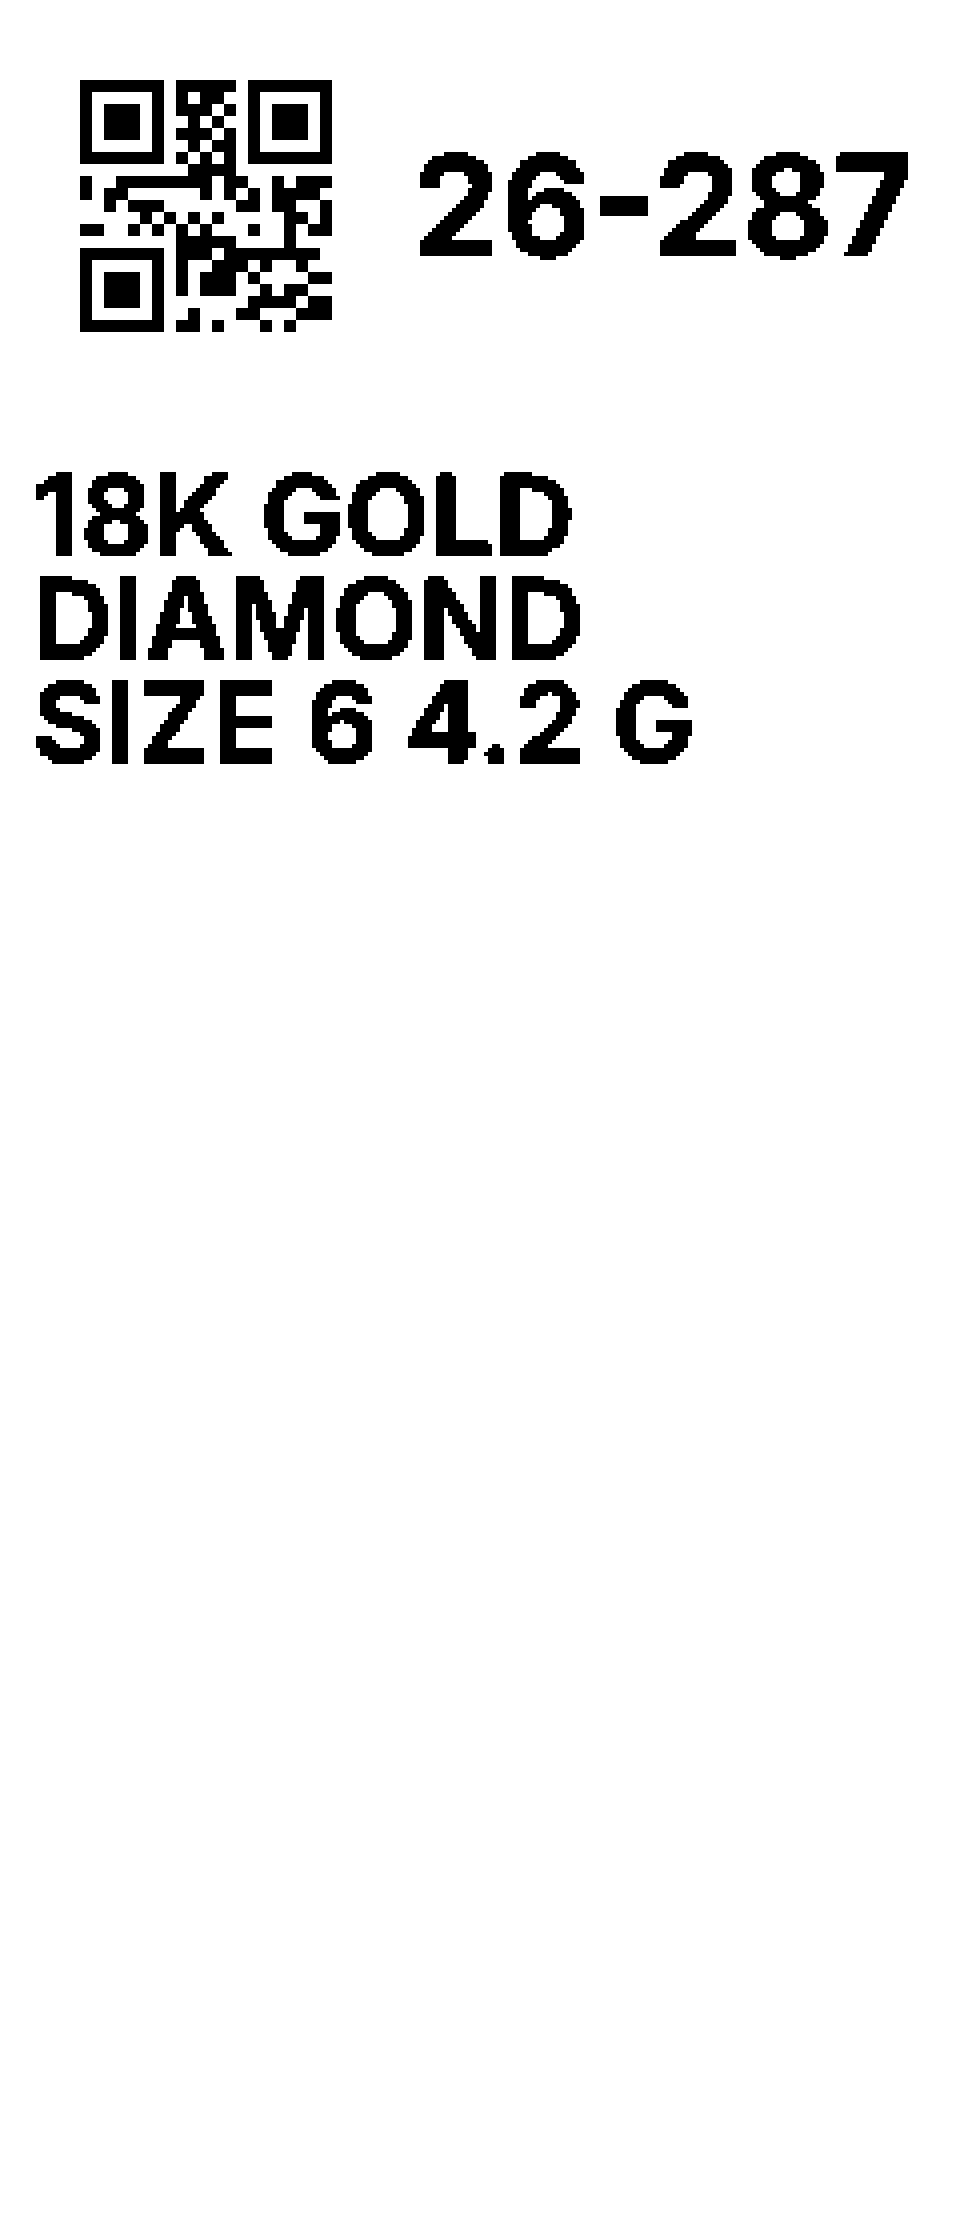
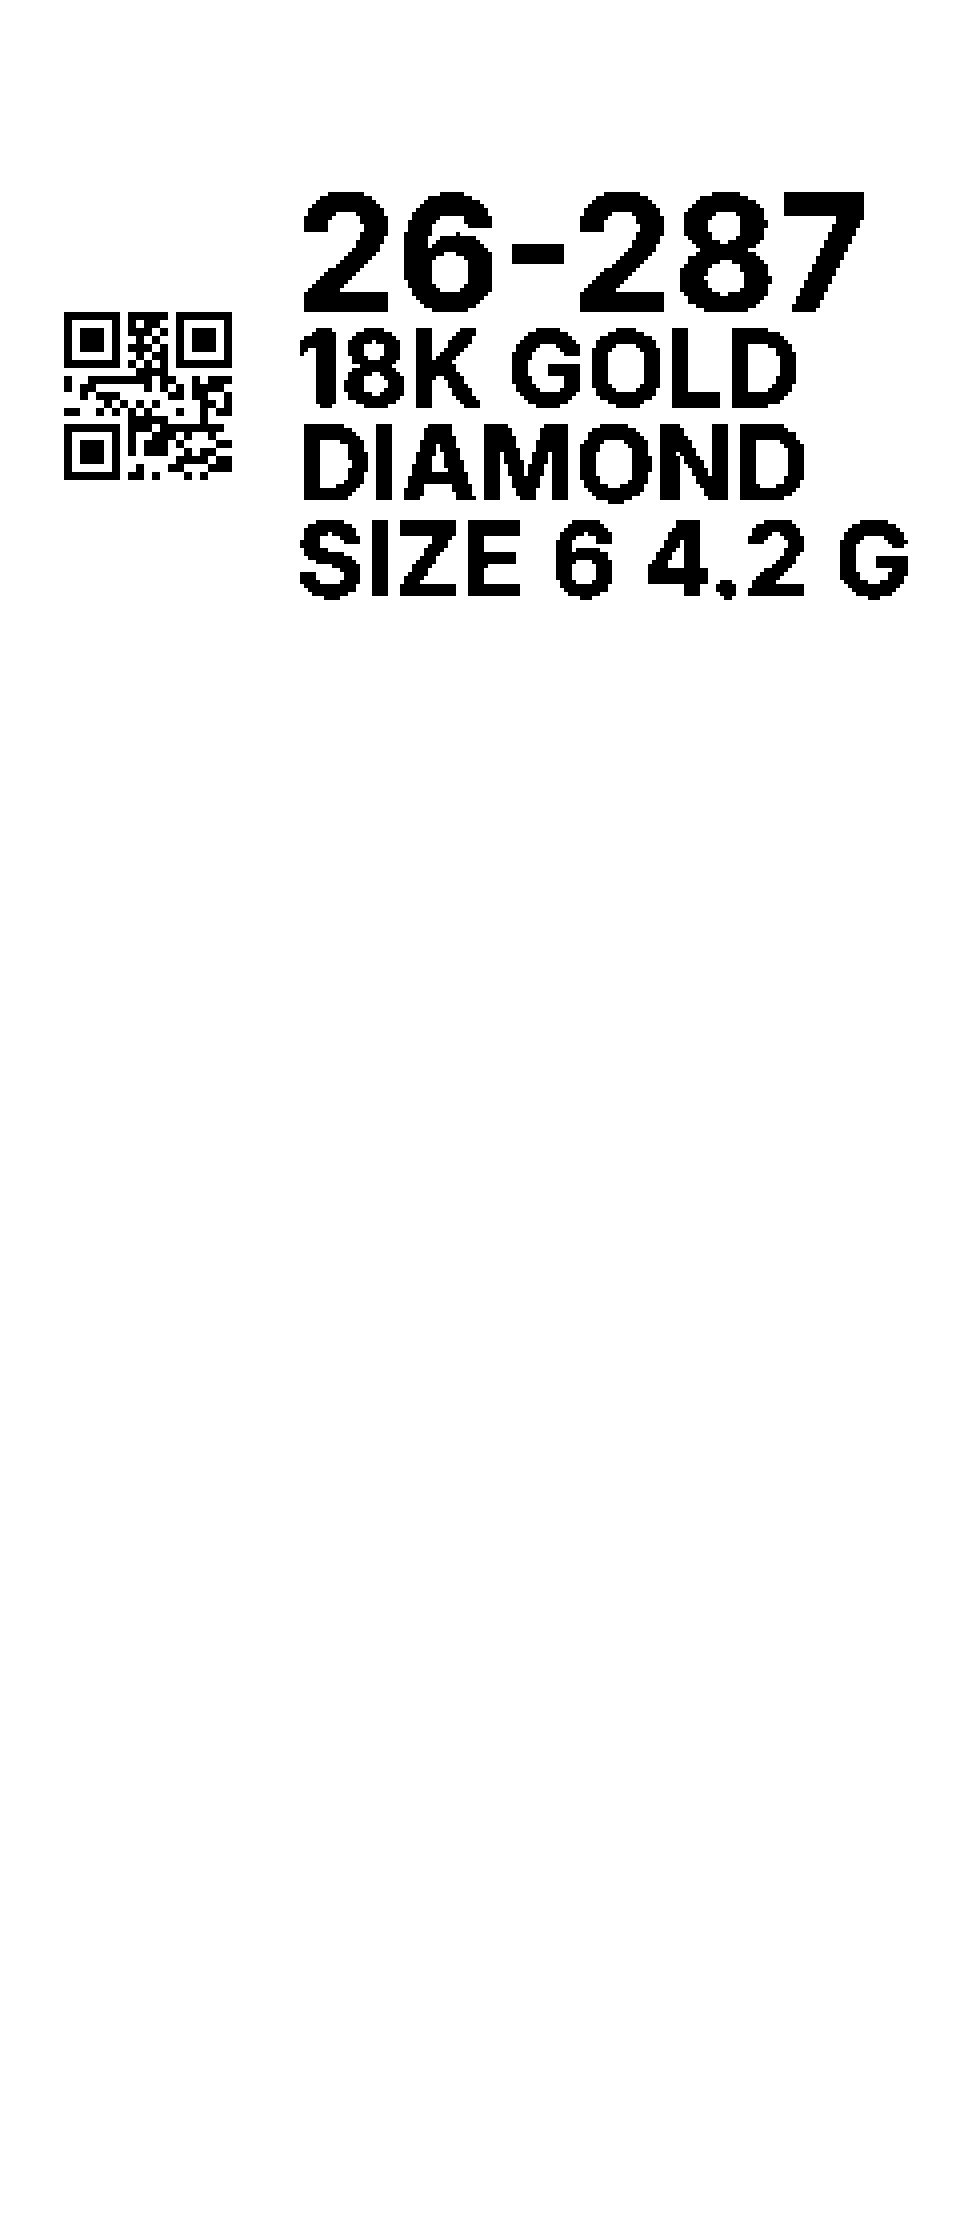
Lay the jewelry tag out like the JO card, QR on the left.
The 30×25 head reads landscape: QR on the left, the JO and spec lines on the right, about 1 mm in from the edges. The 45 mm tail stays blank. B1 print direction is top, so the bitmap is sent unrotated.

Changed region(s): [[0.0312, 0.0312, 0.9688, 0.3438], [0.875, 0.2188, 0.9375, 0.2812]]

diff --git a/print-label.js b/print-label.js
@@ -1,8 +1,10 @@
 /* Niimbot sticker bitmaps. 203 dpi, print direction "top": canvas width is the printhead,
    canvas height is the feed. The 30 mm label is centred. Text is Inter Bold (OFL), drawn with
    fillText at 4x and reduced to the 1-bit label. QR modules stay crisp rectangles.
-   The client name is never read. JO card: 30×20 (240×160). Jewelry tag: 30×25 head plus a
-   45 mm blank tail, 560 px gap to gap. */
+   The client name is never read. JO card: 30×20 (240×160), QR on the left. Jewelry tag:
+   the same landscape reading on the 30×25 head (240×200), then a 45 mm blank tail.
+   B1 and B31 print direction is "top", so x is already across the label and the
+   bitmap is not rotated. A "left" encoder would turn it 90 degrees. */
 (function (root) {
 'use strict';
 if (root.OYPLabel) return;
@@ -191,8 +193,8 @@ function ellipsis(text, maxW, size) {
   return out;
 }
 /* One size for every spec line. Shrink until the longest fits, then ellipsis. */
-function fitSpecs(lines, maxW) {
-  var size = SPEC_PX;
+function fitSpecs(lines, maxW, cap) {
+  var size = cap && cap < SPEC_PX ? cap : SPEC_PX;
   while (size > SPEC_MIN && lines.some(function (t) { return metricsOf(t, size).w > maxW; })) size -= 1;
   return { size: size, lines: lines.map(function (t) { return ellipsis(t, maxW, size); }) };
 }
@@ -264,41 +266,66 @@ function render(opts) {
     if (kind === 'cal_tag') img.rect(x0 + 4, box.labelH - 1, box.labelW - 8, 1);
     img.rect(x0 + 6, 6, 8, 8);
   } else if (kind === 'jewelry_tag') {
+    /* QR on the left, JO (largest) and spec lines on the right, inside the head.
+       Two pixels of slack so the 4× threshold cannot spill into the 1 mm margin. */
     var specs = specLines(opts);
     var mods = jo ? makeQr(jo) : null;
     var mod = 3, quiet = 4;
-    var innerW = box.labelW - pad * 2;
-    var fitted = specs.length ? fitSpecs(specs, innerW) : { size: 0, lines: [] };
-    specPx = fitted.size;
-    var specInk = specPx ? metricsOf('H', specPx) : { ascent: 0, descent: 0 };
-    var lineH = specInk.ascent + specInk.descent;
-    var specGap = 4;
-    var specBlock = fitted.lines.length ? fitted.lines.length * lineH + (fitted.lines.length - 1) * specGap : 0;
     var qpix = mods ? qrSize(mods, mod, quiet) : 0;
-    var specTop = box.labelH - pad - specBlock;
-    if (qpix > specTop - pad - 4) { mod = 2; qpix = mods ? qrSize(mods, mod, quiet) : 0; }
-    var beside = Math.max(0, innerW - qpix - 8);
-    var joMin = specPx ? specPx + 2 : 18;
-    if (jo) {
-      var besideSize = sizeThatFits(jo, beside, JO_MAX, joMin);
-      if (besideSize) {
-        joPx = besideSize;
-        var jm = metricsOf(jo, joPx);
-        var ty = pad + Math.max(0, Math.round((qpix - jm.ascent - jm.descent) / 2));
-        lines.push(jo);
-        runs.push({ text: jo, x: x0 + pad + qpix + 8, y: ty, size: joPx });
-      } else {
-        var under = fitLine(jo, innerW, JO_MAX, joMin);
-        joPx = under.size;
-        lines.push(under.text);
-        runs.push({ text: under.text, x: x0 + pad, y: pad + qpix + 4, size: joPx });
-      }
+    var gap = qpix ? 8 : 0;
+    var colW = Math.max(8, box.labelW - pad * 2 - qpix - gap - 2);
+    /* Module 3 leaves a short column. Below 22 px, Inter caps are under about 2 mm, so drop the QR to module 2. */
+    if (mods && specs.length && fitSpecs(specs, colW).size < 22 && qrSize(mods, 2, quiet) <= box.labelH - pad * 2) {
+      mod = 2;
+      qpix = qrSize(mods, mod, quiet);
+      gap = 8;
+      colW = Math.max(8, box.labelW - pad * 2 - qpix - gap - 2);
     }
-    if (mods) qrBox = { x: x0 + pad, y: pad, size: qpix };
-    fitted.lines.forEach(function (t, i) {
-      lines.push(t);
-      runs.push({ text: t, x: x0 + pad, y: specTop + i * (lineH + specGap), size: specPx });
+    var innerH = box.labelH - pad * 2 - 2;
+    var specCap = SPEC_PX;
+    var fitted = { size: 0, lines: [] };
+    var joFit = null;
+    var block = 0, joM = { ascent: 0, descent: 0 }, lineH = 0, guard = 0;
+    while (guard < 40) {
+      guard++;
+      fitted = specs.length ? fitSpecs(specs, colW, specCap) : { size: 0, lines: [] };
+      specPx = fitted.size;
+      var joMin = specPx ? specPx + 2 : 18;
+      if (joMin > JO_MAX) joMin = JO_MAX;
+      joFit = jo ? fitLine(jo, colW, JO_MAX, joMin) : null;
+      joPx = joFit ? joFit.size : 0;
+      joM = joFit ? metricsOf(joFit.text, joPx) : { ascent: 0, descent: 0 };
+      lineH = 0;
+      if (specPx && fitted.lines.length) {
+        var tall = { ascent: 0, descent: 0 };
+        fitted.lines.forEach(function (t) {
+          var m = metricsOf(t, specPx);
+          if (m.ascent > tall.ascent) tall.ascent = m.ascent;
+          if (m.descent > tall.descent) tall.descent = m.descent;
+        });
+        lineH = tall.ascent + tall.descent;
+      }
+      var specBlock = fitted.lines.length ? fitted.lines.length * lineH + (fitted.lines.length - 1) * 4 : 0;
+      var joBlock = joFit ? joM.ascent + joM.descent : 0;
+      block = joBlock + (joFit && fitted.lines.length ? 4 : 0) + specBlock;
+      if (block <= innerH || specCap <= SPEC_MIN) break;
+      specCap -= 1;
+    }
+    if (joFit) lines.push(joFit.text);
+    fitted.lines.forEach(function (t) { lines.push(t); });
+    var textX = x0 + pad + qpix + gap;
+    var textY = pad + Math.max(0, Math.round((innerH - block) / 2));
+    var yRun = textY;
+    if (joFit) {
+      runs.push({ text: joFit.text, x: textX, y: yRun, size: joPx });
+      yRun += joM.ascent + joM.descent + (fitted.lines.length ? 4 : 0);
+    }
+    fitted.lines.forEach(function (t) {
+      runs.push({ text: t, x: textX, y: yRun, size: specPx });
+      yRun += lineH + 4;
     });
+    var qrY = pad + Math.max(0, Math.round((innerH - qpix) / 2));
+    if (mods) qrBox = { x: x0 + pad, y: qrY, size: qpix };
     stampText(img, runs, box);
     if (mods) img.qr(mods, qrBox.x, qrBox.y, mod, quiet);
   } else {

diff --git a/sim/print-sim.js b/sim/print-sim.js
@@ -60,8 +60,9 @@ const tag = { kind: 'jewelry_tag', jo: '26-287', karat: '18k', metal: 'gold', st
   const t2 = L.render(Object.assign({ model }, tag));
   eq(t.width === head && t.height === 560 && t.offsetX === ox && t.labelW === 240 && t.labelH === 200 && t.tail === 360, model + ' jewelry tag is ' + head + '×560, head 240×200, tail 360');
   eq(same(t.data, t2.data), model + ' jewelry tag pixels ignore the client name');
-  eq(noName(t) && t.lines[0] === '26-287' && t.specPx === L.SPEC_PX && t.joPx > t.specPx && t.lines.indexOf('18K GOLD') >= 0 && t.lines.indexOf('DIAMOND') >= 0 && t.lines.indexOf('SIZE 6 4.2 G') >= 0, model + ' jewelry tag is the JO plus specs, and the JO is larger');
+  eq(noName(t) && t.lines[0] === '26-287' && t.joPx > t.specPx && t.specPx >= 16 && t.specPx <= L.SPEC_PX && t.lines.indexOf('18K GOLD') >= 0 && t.lines.indexOf('DIAMOND') >= 0 && t.lines.indexOf('SIZE 6 4.2 G') >= 0, model + ' jewelry tag is the JO plus specs, and the JO is larger');
   eq(tailWhite(t), model + ' jewelry tag tail is blank');
+  eq(landscape(t), model + ' jewelry tag reads landscape, QR on the left and text on the right');
   eq(decode(t) === '26-287', model + ' jewelry tag QR is 26-287');
 });
 
@@ -72,10 +73,29 @@ eq(wide.specPx >= 14 && wide.joPx > wide.specPx && noName(wide) && wide.lines.so
 function clearMargin(img) {
   const m = L.px(1), x0 = img.offsetX;
   for (let y = 0; y < img.labelH; y++) for (let x = 0; x < img.labelW; x++) {
-    if (x >= m && x < img.labelW - m) continue;
+    const edge = x < m || x >= img.labelW - m || y < m || y >= img.labelH - m;
+    if (!edge) continue;
     if (img.data[(y * img.width + x0 + x) * 4] !== 255) return false;
   }
   return true;
+}
+/* Text sits beside the QR, not under it, and stays inside the head. */
+function landscape(img) {
+  const box = img.qrBox;
+  if (!box || box.x > img.offsetX + L.px(1) + 1) return false;
+  const right = box.x + box.size;
+  let ink = false;
+  for (let y = 0; y < img.labelH; y++) {
+    for (let x = right + 2; x < img.offsetX + img.labelW - L.px(1); x++) {
+      if (img.data[(y * img.width + x) * 4] === 0) ink = true;
+    }
+  }
+  for (let y = box.y + box.size + 2; y < img.labelH; y++) {
+    for (let x = img.offsetX; x < right - 4; x++) {
+      if (img.data[(y * img.width + x) * 4] === 0) return false;
+    }
+  }
+  return ink;
 }
 eq(clearMargin(long) && clearMargin(wide), 'spec ink stays about 1 mm inside the 30 mm edges');
 const cal = L.render({ kind: 'cal_tag', model: 'B31' });
@@ -185,7 +205,8 @@ eq(/printQueue:\s*1/.test(app) && !/printQueue/.test(cached), 'printQueue is a c
 eq(!/printMark\s*:\s*1/.test(app) && !/printEnqueue\s*:\s*1/.test(app) && !/printReprint\s*:\s*1/.test(app), 'print writes are not client reads');
 eq(fast.includes('priceJobCost: 1, printQueue: 1') && !fast.includes('dashboard: 1, printQueue'), 'Fast READS gains printQueue and FAST.CACHE does not');
 eq(dash.includes('listUsers: 1, printQueue: 1') && !dash.includes("action !== 'printQueue'"), 'DashCache READS gains printQueue and the dashboard spec does not');
-eq(index.includes('print.js?v=2') && index.includes('print-label.js?v=2') && index.includes('nav.js?v=14') && index.includes('app.js?v=29') && index.includes('settings.js?v=18') && index.includes('print.css?v=1'), 'print assets are cache-busted');
+eq(index.includes('print.js?v=2') && index.includes('print-label.js?v=3') && index.includes('nav.js?v=15') && index.includes('app.js?v=29') && index.includes('settings.js?v=18') && index.includes('print.css?v=1'), 'print assets are cache-busted');
+eq(read('nav.js').includes('print-label.js?v=3'), 'the scanner injects the current label renderer');
 eq(read('print.js').includes('labelOpts') && !/client:\s*item\.client/.test(read('print.js')), 'the printer payload builder does not copy the client name');
 
 if (failed) { console.error(failed + ' failed'); process.exit(1); }

diff --git a/nav.js b/nav.js
@@ -37,7 +37,7 @@ if (typeof document !== 'undefined' && document.createElement) {
   src = cs && (cs.src || '');
   var base = src ? src.replace(/[^/]*$/, '') : '';
   if (base && !document.querySelector('script[src*="print.js"]')) {
-    ['vendor/qrcode.js?v=1', 'vendor/niimbluelib-0.47.1.js?v=1', 'print-label.js?v=2', 'print.js?v=2'].forEach(function (rel) {
+    ['vendor/qrcode.js?v=1', 'vendor/niimbluelib-0.47.1.js?v=1', 'print-label.js?v=3', 'print.js?v=2'].forEach(function (rel) {
       var ps = document.createElement('script');
       ps.src = base + rel;
       ps.async = false;

diff --git a/staff/index.html b/staff/index.html
@@ -65,8 +65,8 @@
 <script src="../production.js?v=8"></script>
 <script src="../vendor/qrcode.js?v=1"></script>
 <script src="../vendor/niimbluelib-0.47.1.js?v=1"></script>
-<script src="../print-label.js?v=2"></script>
+<script src="../print-label.js?v=3"></script>
 <script src="../print.js?v=2"></script>
-<script src="../nav.js?v=14"></script>
+<script src="../nav.js?v=15"></script>
 <script src="../app.js?v=29"></script>
 </body></html>

diff --git a/staff/print-test.html b/staff/print-test.html
@@ -22,7 +22,7 @@
 </main>
 <script src="../vendor/qrcode.js?v=1"></script>
 <script src="../vendor/niimbluelib-0.47.1.js?v=1"></script>
-<script src="../print-label.js?v=2"></script>
+<script src="../print-label.js?v=3"></script>
 <script src="../print.js?v=2"></script>
 <script>
 (function () {
